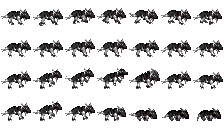
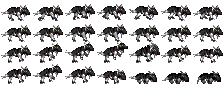
In process backup,bug fix,another step in adding larger sprite and mob change

diff --git a/core/src/main/java/com/unifier/arknightspixeldungeon/actors/mobs/DublinnScout.java b/core/src/main/java/com/unifier/arknightspixeldungeon/actors/mobs/DublinnScout.java
@@ -3,12 +3,15 @@ package com.unifier.arknightspixeldungeon.actors.mobs;
 import com.unifier.arknightspixeldungeon.actors.Char;
 import com.unifier.arknightspixeldungeon.actors.buffs.Buff;
 import com.unifier.arknightspixeldungeon.messages.Messages;
+import com.unifier.arknightspixeldungeon.sprites.CharSprite;
 import com.unifier.arknightspixeldungeon.sprites.DublinnScoutSprite;
 import com.unifier.arknightspixeldungeon.ui.BuffIndicator;
 import com.watabou.noosa.Image;
 import com.watabou.utils.Random;
 
 public class DublinnScout extends Mob {
+
+    private boolean attached = false;
 
     {
         spriteClass = DublinnScoutSprite.class;
@@ -39,8 +42,7 @@ public class DublinnScout extends Mob {
 
     @Override
     public void magicalDamage(int dmg, Object src){
-
-        if(buff(DublinnScoutMagicResist.class)!=null)
+        if(this.buff(DublinnScoutMagicResist.class)!=null)
         {
             dmg *= 0.3f;
             Buff.detach( this, DublinnScoutMagicResist.class );
@@ -48,20 +50,25 @@ public class DublinnScout extends Mob {
         super.magicalDamage(dmg,src);
     };
 
-    public class DublinnScoutMagicResist extends Buff{
+    public static class DublinnScoutMagicResist extends Buff{
         @Override
         public int icon() {
             return BuffIndicator.ARMOR;
         }
 
         @Override
-        public void tintIcon(Image icon) {
-            icon.hardlight(0.5f, 1f, 2f);
+        public void tintIcon(Image icon) { icon.hardlight(0.5f, 1f, 2f);
         }
 
         @Override
         public String toString() {
             return Messages.get(this, "name");
+        }
+
+        @Override
+        public void detach() {
+            super.detach();
+            target.sprite.showStatus( CharSprite.NEUTRAL, Messages.get(this, "blocked"));
         }
 
         @Override

diff --git a/core/src/main/java/com/unifier/arknightspixeldungeon/actors/hero/skills/Exusiai/Guns/ExusiaiSkill.java b/core/src/main/java/com/unifier/arknightspixeldungeon/actors/hero/skills/Exusiai/Guns/ExusiaiSkill.java
@@ -173,7 +173,6 @@ public abstract class ExusiaiSkill extends HeroSkill {
         return true;
     };
 
-    ;
 
     public void doAfterAction() {
 
@@ -240,24 +239,31 @@ public abstract class ExusiaiSkill extends HeroSkill {
     protected void doEnemyCheck(int from, int to){
         Char enemy = Char.findChar(to);
         boolean visibleFight = Dungeon.level.heroFOV[to];
-
+        GLog.i("1");
         if(enemy != null && enemy.alignment == Char.Alignment.ENEMY){
             if(doHitCheck(from,to,enemy)){
+                GLog.i("2-1");
                 doDamageCalculation(from,to,enemy);
+                GLog.i("2-2");
             }else {
                 if (visibleFight) {
+                    GLog.i("3-1");
                     Splash.at( to, 0xCCFFC800, 1 );
                     String defense = enemy.defenseVerb();
                     enemy.sprite.showStatus( CharSprite.NEUTRAL, defense );
                     Sample.INSTANCE.play(Assets.SND_MISS);
                 }
+                GLog.i("4-1");
                 doCheckAfterShooting(1,false);
+                GLog.i("4-2");
             }
         }else {
             if (visibleFight) {
                 Splash.at(to, 0xCCFFC800, 1);
             }
+            GLog.i("5-1");
             doCheckAfterShooting(1,false);
+            GLog.i("5-2");
         }
     }
 
@@ -286,7 +292,7 @@ public abstract class ExusiaiSkill extends HeroSkill {
         if (enemy.buff(Bless.class) != null) defRoll *= 1.25f;
         if (enemy.buff(Hex.class) != null) defRoll *= 0.8f;
 
-        //GLog.i(owner.getAttackSkill()+" "+basicAccuracy+" "+acuRoll+" "+defRoll);
+        GLog.i(owner.getAttackSkill()+" "+basicAccuracy+" "+acuRoll+" "+defRoll);
 
        return acuRoll >= defRoll;
     }

diff --git a/core/src/main/java/com/unifier/arknightspixeldungeon/actors/mobs/Bestiary.java b/core/src/main/java/com/unifier/arknightspixeldungeon/actors/mobs/Bestiary.java
@@ -48,16 +48,16 @@ public class Bestiary {
 						Rat.class, Rat.class, Rat.class, Rat.class, Rat.class));
 			case 2:
 				//2x 源石虫, 3x 深池侦察兵 1x 大君之触
-				return new ArrayList<>(Arrays.asList(Rat.class, Rat.class, Gnoll.class,
-						Gnoll.class, Gnoll.class, TouchOfTheSanguinarch.class));
+				return new ArrayList<>(Arrays.asList(Rat.class, Rat.class, DublinnScout.class,
+                        DublinnScout.class, DublinnScout.class, TouchOfTheSanguinarch.class));
 			case 3:
 				//1x 源石虫, 2x 深池侦察兵, 2x 深池狙击手, 1x 深池暗影术士,1x 深池侦察犬,1x 萨卡兹征用工程无人机
-				return new ArrayList<>(Arrays.asList(Rat.class, Gnoll.class,
-                        Gnoll.class, DublinnSniper.class, DublinnSniper.class, DublinnShadowcaster.class,
+				return new ArrayList<>(Arrays.asList(Rat.class, DublinnScout.class,
+                        DublinnScout.class, DublinnSniper.class, DublinnSniper.class, DublinnShadowcaster.class,
                         DublinnSnifferHound.class, SarkazRequisitionedEngineeringDrone.class));
 			case 4:
                 //1x 深池侦察兵, 1x 深池狙击手, 2x 深池侦查犬, 1x 深池暗影术士,1x 深池方阵战士,1x 萨卡兹征用工程无人机,1x 大君之触
-				return new ArrayList<>(Arrays.asList(Gnoll.class,
+				return new ArrayList<>(Arrays.asList(DublinnScout.class,
                         DublinnSniper.class,
                         DublinnSnifferHound.class, DublinnSnifferHound.class,DublinnShadowcaster.class,
                         DublinnPhalanxInfantry.class, SarkazRequisitionedEngineeringDrone.class,TouchOfTheSanguinarch.class));

diff --git a/core/src/main/java/com/unifier/arknightspixeldungeon/sprites/DublinnScoutSprite.java b/core/src/main/java/com/unifier/arknightspixeldungeon/sprites/DublinnScoutSprite.java
@@ -1,4 +1,30 @@
 package com.unifier.arknightspixeldungeon.sprites;
 
+import com.unifier.arknightspixeldungeon.Assets;
+import com.watabou.noosa.TextureFilm;
+
 public class DublinnScoutSprite extends MobSprite {
+
+    public DublinnScoutSprite() {
+        super();
+
+        texture( Assets.DUBLINNSCOUT );
+
+        TextureFilm frames = new TextureFilm( texture, 32, 31 );
+
+        idle = new Animation( 4, true );
+        idle.frames( frames, 0, 1, 2, 3, 4, 5 );
+
+        run = new Animation( 12, true );
+        run.frames( frames, 6, 7, 8 , 9, 10, 11, 12, 13);
+
+        attack = new Animation( 18, false );
+        attack.frames( frames,  14, 15, 16, 17, 18, 19, 20);
+
+        die = new Animation( 7, false );
+        die.frames( frames, 21, 22, 23, 24, 25, 26, 27 );
+
+        play(idle);
+    }
+
 }

diff --git a/core/src/main/java/com/unifier/arknightspixeldungeon/actors/buffs/Buff.java b/core/src/main/java/com/unifier/arknightspixeldungeon/actors/buffs/Buff.java
@@ -26,6 +26,7 @@ import com.unifier.arknightspixeldungeon.actors.Actor;
 import com.unifier.arknightspixeldungeon.actors.Char;
 import com.unifier.arknightspixeldungeon.ui.BuffIndicator;
 import com.watabou.noosa.Image;
+import com.watabou.utils.DeviceCompat;
 
 import java.text.DecimalFormat;
 import java.util.HashSet;
@@ -115,6 +116,7 @@ public class Buff extends Actor {
 			buff.attachTo( target );
 			return buff;
 		} catch (Exception e) {
+            DeviceCompat.log("log",e.getMessage());
 			ArknightsPixelDungeon.reportException(e);
 			return null;
 		}

diff --git a/core/src/main/java/com/unifier/arknightspixeldungeon/Assets.java b/core/src/main/java/com/unifier/arknightspixeldungeon/Assets.java
@@ -92,6 +92,7 @@ public class Assets {
     public static final String ROT_HEART= MOBS + "rot_heart.png";
     public static final String GUARD    = MOBS + "guard.png";
 
+    public static final String DUBLINNSCOUT = MOBS + "dublinn_scout.png";
     public static final String BLACKWATERORIGINIUM = MOBS + "blackwater_originium_slug.png";
     public static final String DUBLINNPHALANXINFANTRY = MOBS + "dublinn_phalanx_infantry.png";
     public static final String DUBLINNSNIFFERHOUND    = MOBS + "dublinn_sniffer_hound.png";

diff --git a/core/src/main/java/com/unifier/arknightspixeldungeon/sprites/DublinnSnifferHoundSprite.java b/core/src/main/java/com/unifier/arknightspixeldungeon/sprites/DublinnSnifferHoundSprite.java
@@ -10,7 +10,7 @@ public class DublinnSnifferHoundSprite extends MobSprite {
 
         texture( Assets.DUBLINNSNIFFERHOUND );
 
-        TextureFilm frames = new TextureFilm( texture, 32, 32 );
+        TextureFilm frames = new TextureFilm( texture, 32, 21 );
 
         idle = new Animation( 8, true );
         idle.frames( frames,7, 8, 9, 10 ,11,12,13 ,13,12,11,10,9,8,7);

diff --git a/core/src/main/java/com/unifier/arknightspixeldungeon/actors/hero/skills/Exusiai/Guns/Vector.java b/core/src/main/java/com/unifier/arknightspixeldungeon/actors/hero/skills/Exusiai/Guns/Vector.java
@@ -178,6 +178,7 @@ public class Vector extends ExusiaiSkill {
             Splash.at( to, 0xCCFFC800, 1 );
             Sample.INSTANCE.play(Assets.SND_MISS);
             enemy.sprite.showStatus( CharSprite.NEUTRAL,defense);
+            doCheckAfterShooting(burst,false);
         }
     }
 

diff --git a/core/src/main/java/com/unifier/arknightspixeldungeon/actors/hero/HeroClass.java b/core/src/main/java/com/unifier/arknightspixeldungeon/actors/hero/HeroClass.java
@@ -154,6 +154,8 @@ public enum HeroClass {
 			new PotionOfExperience().identify().collect();
 		}
 
+		new WandOfMagicMissile().identify().collect();
+
 		//SandalsOfNature sandalsOfNature = new SandalsOfNature();
 		//sandalsOfNature.identify().collect();
 
